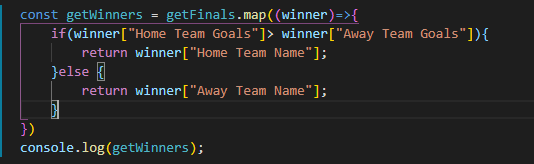
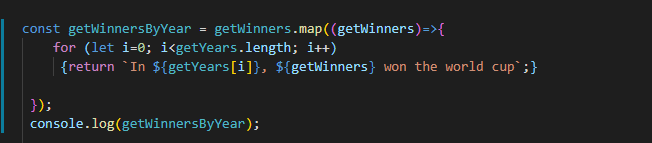
task 6 done

Changed region(s): [[0.0, 0.028, 0.9288, 0.951], [0.0599, 0.2797, 0.839, 0.6154]]

diff --git a/index.js b/index.js
@@ -55,13 +55,16 @@ and determine the winner (home or away) of each `finals` game. Return the name o
 
 
 const getWinners = getFinals.map((winner)=>{
+     
     if(winner["Home Team Goals"]> winner["Away Team Goals"]){
         return winner["Home Team Name"];
     }else {
         return winner["Away Team Name"];
     }
 })
+
 console.log(getWinners);
+
 
 /* Task 6: Implement a higher-order function called `getWinnersByYear` that accepts the following parameters and returns a set of strings 
 "In {year}, {country} won the world cup!" 
@@ -71,12 +74,27 @@ Parameters:
  * callback function getYears
  */
 
-function getWinnersByYear(/* code here */) {
 
-};
+const getWinnersByYear = ()=>{
+    let champArr = [];
+    for(let i = 0; i < getFinals.length; i++)
+    {
+        champArr.push(`In ${getYears[i]}, ${getWinners[i]} won the world cup!`);
+    }
+    return champArr;
+    }
 
-getWinnersByYear();
+console.log(getWinnersByYear());
 
+// const getWinnersByYear = getFinals.map((getWinners)=>{
+//     for (let i=0; i<getYears.length; i++)   
+//      {return `In ${getYears[i]}, ${getWinners} won the world cup`;}
+   
+//  });
+//  console.log(getWinnersByYear);
+
+
+ 
 /* Task 7: Write a function called `getAverageGoals` that accepts a parameter `data` and returns the the average number of home team goals and away team goals scored per match (Hint: use .reduce and do this in 2 steps) */
 
 function getAverageGoals(/* code here */) {
@@ -87,41 +105,3 @@ function getAverageGoals(/* code here */) {
 
 getAverageGoals();
 
-/// STRETCH 🥅 //
-
-/* Stretch 1: Create a function called `getCountryWins` that takes the parameters `data` and `team initials` and returns the number of world cup wins that country has had. 
-
-Hint: Investigate your data to find "team initials"!
-Hint: use `.reduce` */
-
-function getCountryWins(/* code here */) {
-
-    /* code here */
-
-};
-
-getCountryWins();
-
-
-/* Stretch 3: Write a function called getGoals() that accepts a parameter `data` and returns the team with the most goals score per appearance (average goals for) in the World Cup finals */
-
-function getGoals(/* code here */) {
-
-    /* code here */
-
-};
-
-getGoals();
-
-
-/* Stretch 4: Write a function called badDefense() that accepts a parameter `data` and calculates the team with the most goals scored against them per appearance (average goals against) in the World Cup finals */
-
-function badDefense(/* code here */) {
-
-    /* code here */
-
-};
-
-badDefense();
-
-/* If you still have time, use the space below to work on any stretch goals of your chosing as listed in the README file. */
